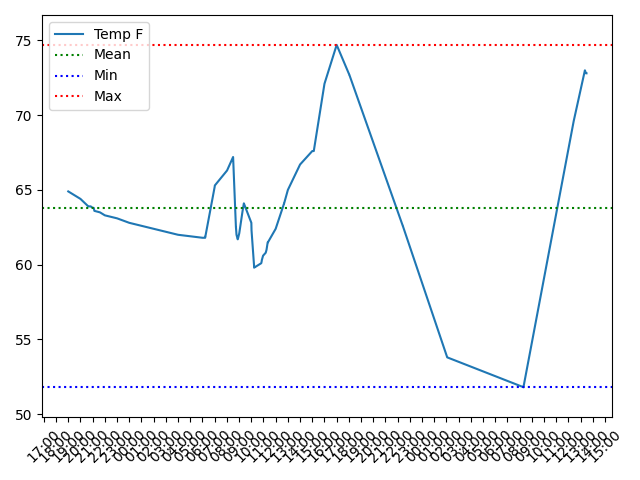
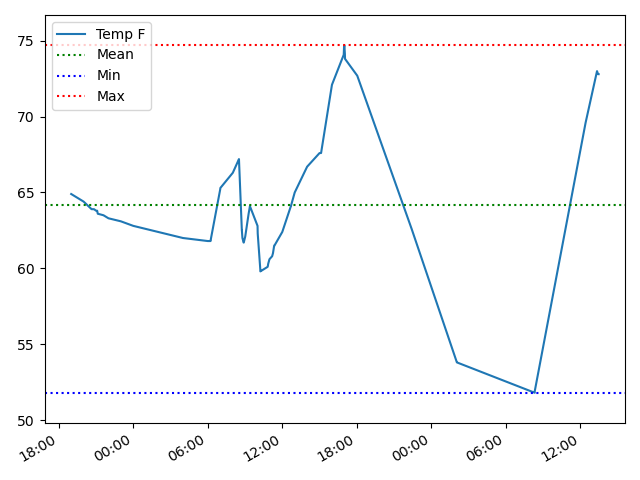
graph fun

diff --git a/pipeline.py b/pipeline.py
@@ -11,6 +11,7 @@ import matplotlib.pyplot as plt
 import pandas as pd
 import smbus2
 import sysrsync
+from matplotlib.ticker import NullLocator
 from picamera2 import Picamera2
 
 bme_addr = 0x76
@@ -107,25 +108,40 @@ def snap_picture():
 
 def plot_graph():
     try:
-        df = pd.read_csv("./data/records.csv", parse_dates=["date"])
+        df = pd.read_csv("data/records.csv", parse_dates=["date"])
+        df["date"] = pd.to_datetime(df["date"], errors="coerce")
+        df = df.dropna(subset=["date"])
         df = df.sort_values("date")
         fig, ax = plt.subplots()
+
+        # Plotting the data
         ax.plot(df["date"], df["temp"], label="Temp F")
-        ax.xaxis.set_major_formatter(mdates.DateFormatter("%H:%M"))
-        ax.xaxis.set_major_locator(mdates.HourLocator())
-        plt.xticks(rotation=45)
+
+        # Setting up the x-axis to display only specific days
+        locator = mdates.HourLocator(interval=6)  # Adjust maxticks as needed
+        formatter = mdates.DateFormatter("%H:%M")
+        ax.xaxis.set_major_locator(locator)
+        ax.xaxis.set_major_formatter(formatter)
+        ax.xaxis.set_minor_locator(NullLocator())
+
+        # Rotating the labels for better visibility
+        fig.autofmt_xdate()
 
         # Optional: horizontal lines for min, max, mean
         ax.axhline(y=df["temp"].mean(), color="green", linestyle=":", label="Mean")
         ax.axhline(y=df["temp"].min(), color="blue", linestyle=":", label="Min")
         ax.axhline(y=df["temp"].max(), color="red", linestyle=":", label="Max")
 
+        # Setting the y-axis limits
         ax.set_ylim(df["temp"].min() - 2, df["temp"].max() + 2)
+
+        # Adding legend and title
         ax.legend()
         plt.tight_layout()
 
-        # save to static location for Flask
+        # Saving to static location for Flask
         fig.savefig("./static/temp_plot.png")
+        plt.show()
         plt.close(fig)
     except Exception as e:
         print(f"Error generating plot: {e}")

diff --git a/plots.py b/plots.py
@@ -1,0 +1,48 @@
+import matplotlib.dates as mdates
+import matplotlib.pyplot as plt
+import pandas as pd
+from matplotlib.ticker import NullLocator
+
+
+def plot_graph():
+    try:
+        df = pd.read_csv("data/records.csv", parse_dates=["date"])
+        df["date"] = pd.to_datetime(df["date"], errors="coerce")
+        df = df.dropna(subset=["date"])
+        df = df.sort_values("date")
+        fig, ax = plt.subplots()
+
+        # Plotting the data
+        ax.plot(df["date"], df["temp"], label="Temp F")
+
+        # Setting up the x-axis to display only specific days
+        locator = mdates.HourLocator(interval=6)  # Adjust maxticks as needed
+        formatter = mdates.DateFormatter("%H:%M")
+        ax.xaxis.set_major_locator(locator)
+        ax.xaxis.set_major_formatter(formatter)
+        ax.xaxis.set_minor_locator(NullLocator())
+
+        # Rotating the labels for better visibility
+        fig.autofmt_xdate()
+
+        # Optional: horizontal lines for min, max, mean
+        ax.axhline(y=df["temp"].mean(), color="green", linestyle=":", label="Mean")
+        ax.axhline(y=df["temp"].min(), color="blue", linestyle=":", label="Min")
+        ax.axhline(y=df["temp"].max(), color="red", linestyle=":", label="Max")
+
+        # Setting the y-axis limits
+        ax.set_ylim(df["temp"].min() - 2, df["temp"].max() + 2)
+
+        # Adding legend and title
+        ax.legend()
+        plt.tight_layout()
+
+        # Saving to static location for Flask
+        fig.savefig("./static/temp_plot.png")
+        plt.show()
+        plt.close(fig)
+    except Exception as e:
+        print(f"Error generating plot: {e}")
+
+
+plot_graph()
